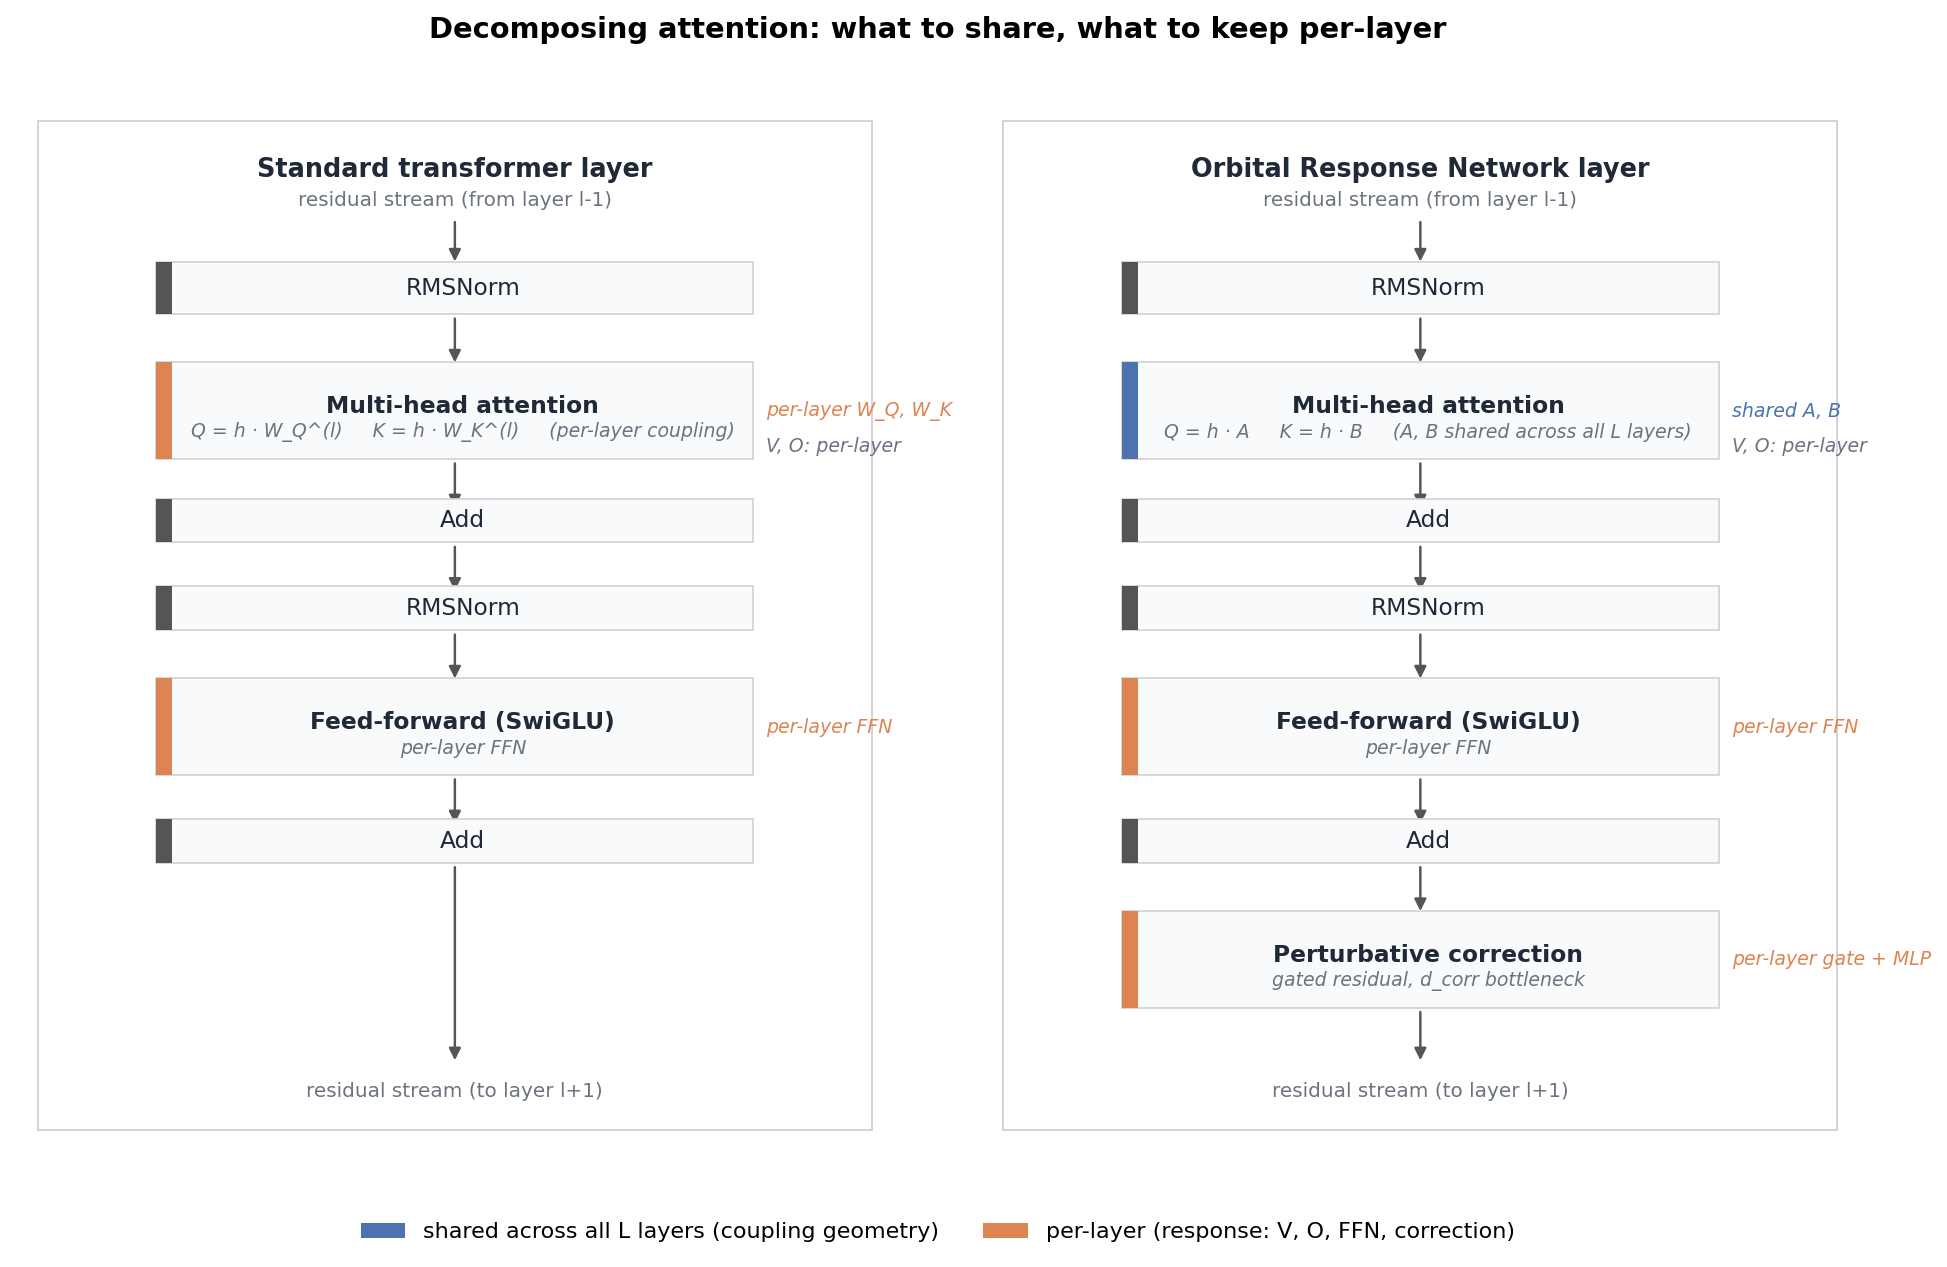
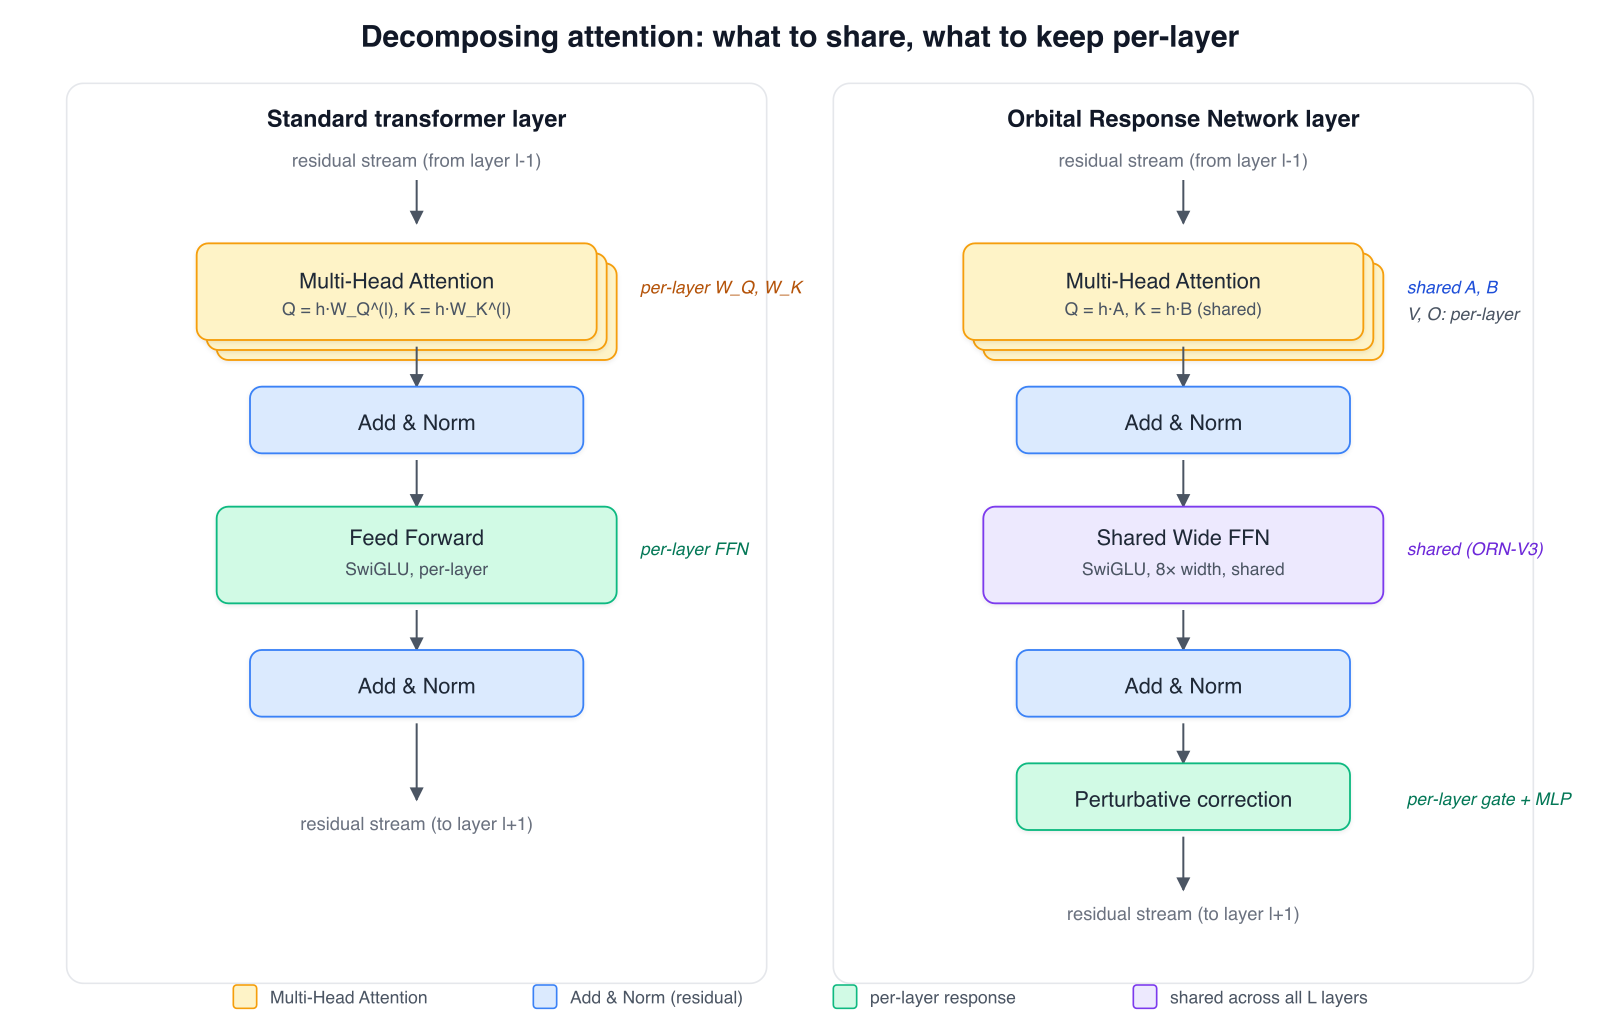
Article: paper-style SVG/PNG architecture diagram + LaTeX math inline
- New architecture.svg hand-written in AIAYN paper style: stacked rounded
  rectangles, pastel fills (yellow Multi-Head Attention, blue Add & Norm,
  green per-layer, purple shared), right-margin annotations, legend.
  Rasterised via librsvg to 1600×1034 px PNG (169 KB).
- Article upgraded to use real LaTeX for the math: inline $M_l = W_Q^\top W_K$,
  $A, B \in \mathbb{R}^{d\times d}$, and a display block for the
  coupling equations. Requires the render_math.py pre-processor (lives
  in git-ignored scripts/) which the publish helper now invokes before
  markdown-to-HTML rendering.

diff --git a/drafts/the_orbital_response_network.md b/drafts/the_orbital_response_network.md
@@ -10,13 +10,13 @@ The more interesting question is: if the data could tell you what is already inv
 
 ## The observation
 
-Every transformer layer learns its own pair of coupling matrices W_Q and W_K. The object that actually determines which tokens attend to which is not either matrix alone but the product M_l = W_Q^T W_K. If you look at the eigenvalue magnitudes of M_l at every layer of a trained transformer and plot them on top of each other, they line up.
+Every transformer layer learns its own pair of coupling matrices $W_Q$ and $W_K$. The object that actually determines which tokens attend to which is not either matrix alone but the product $M_l = W_Q^{\top} W_K$. If you look at the eigenvalue magnitudes of $M_l$ at every layer of a trained transformer and plot them on top of each other, they line up.
 
 ![Per-layer coupling eigenspectra overlap; Spearman heatmap across layers](https://raw.githubusercontent.com/Percolation-Labs/orn/article-drafts/drafts/figs/COU-02_coupling_manifold_8d.png)
 
-The raw matrices point in different directions. Cosine similarity between any two M_l matrices sits around 0.005. But the spectrum is the same everywhere. On a small trained transformer in the repo, the pairwise Spearman correlation of sorted eigenvalue magnitudes is 0.999 across layers. On real pretrained transformers (three GPT-2 sizes, SmolLM2-135M, Qwen2.5-0.5B), the correlation sits between 0.93 and 0.99.
+The raw matrices point in different directions. Cosine similarity between any two $M_l$ matrices sits around 0.005. But the spectrum is the same everywhere. On a small trained transformer in the repo, the pairwise Spearman correlation of sorted eigenvalue magnitudes is 0.999 across layers. On real pretrained transformers (three GPT-2 sizes, SmolLM2-135M, Qwen2.5-0.5B), the correlation sits between 0.93 and 0.99.
 
-M is a bilinear form. Its spectrum is invariant under orthogonal rotation. What the data is telling us is that every layer has learned the same bilinear form, up to rotation. The layers are not independent draws from a distribution of coupling rules. They are one rule, expressed in different coordinate frames, acting on a residual stream that rotates through those frames as depth increases.
+$M$ is a bilinear form. Its spectrum is invariant under orthogonal rotation. What the data is telling us is that every layer has learned the same bilinear form, up to rotation. The layers are not independent draws from a distribution of coupling rules. They are one rule, expressed in different coordinate frames, acting on a residual stream that rotates through those frames as depth increases.
 
 I spent a while checking whether this is an artefact of training, a quirk of one model, or a feature of one scale. It reproduces across model families, across seeds, and across training runs. Same thing showing up every time.
 
@@ -24,15 +24,15 @@ I spent a while checking whether this is an artefact of training, a quirk of one
 
 ## Exploiting it
 
-If one rule is enough for every layer, parameterise it once. Replace per-layer W_Q and W_K with a single shared pair A, B in R^{d x d}, and define
+If one rule is enough for every layer, parameterise it once. Replace per-layer $W_Q$ and $W_K$ with a single shared pair $A, B \in \mathbb{R}^{d \times d}$, and define
 
-```
-Q_l = h_l · A       K_l = h_l · B       M = A B^T
-```
+$$
+Q_l = h_l \cdot A, \quad K_l = h_l \cdot B, \quad M = AB^{\top}
+$$
 
-applied at every layer of a stack. Per-layer variation comes from the residual stream h_l, which the transformer already updates layer by layer. Response heads (W_V, W_O, the FFN) stay per-layer, because the response to coupling legitimately varies with depth.
+applied at every layer of a stack. Per-layer variation comes from the residual stream $h_l$, which the transformer already updates layer by layer. Response heads ($W_V$, $W_O$, the FFN) stay per-layer, because the response to coupling legitimately varies with depth.
 
-We call this an Orbital Response Network. One pair A, B governs coupling across the whole stack. The asymmetry matters: M = A B^T, not M = L L^T. Language coupling is directed (subjects and verbs couple differently depending on who is attending to whom), and symmetric coupling loses about 3.6% on validation on autoregressive tasks.
+We call this an Orbital Response Network. One pair $A, B$ governs coupling across the whole stack. The asymmetry matters: $M = AB^{\top}$, not $M = LL^{\top}$. Language coupling is directed (subjects and verbs couple differently depending on who is attending to whom), and symmetric coupling loses about 3.6% on validation on autoregressive tasks.
 
 ## How this is different from prior weight sharing
 
